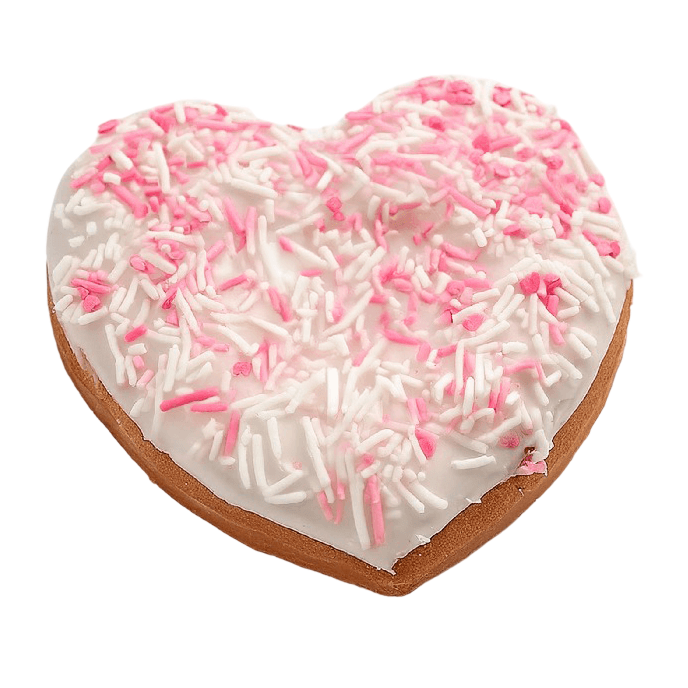
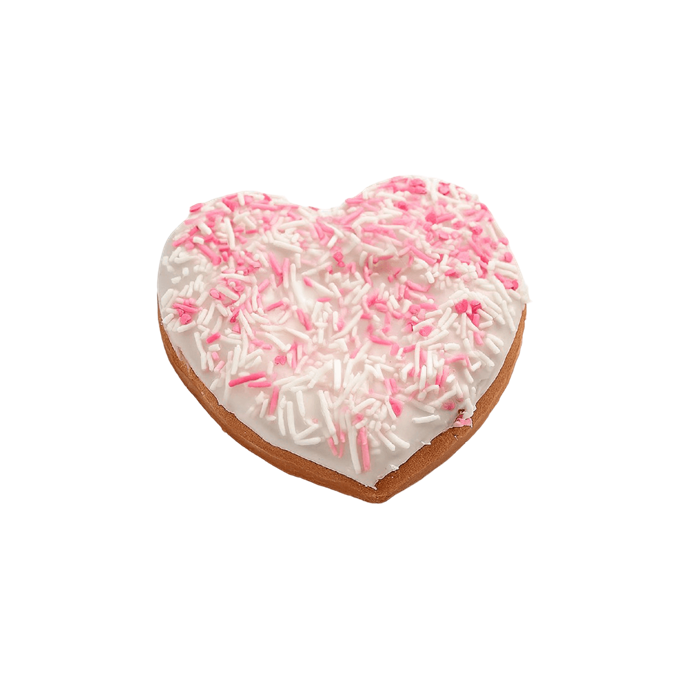
Customizable products open their page from the knob; two donuts resized
THE KNOB. It was only the boxes that opened a page instead of adding —
an empty box is a line the counter cannot pack. But the same is true of
every product carrying a customization: a letter cake with no letter, a
printed dozen with no artwork, a petite tray with no colours. Adding
those from a tile put a line in the bag that checkout then refused, and
left the visitor to work out which one and go and finish it.

The rule follows the data rather than a hand-kept list:
`customizationFor` is already the answer to "does this need specifying",
so adding a product to the customization system now makes its knob open
its page. They do not become steppers either — a second press should ask
the second donut's questions, not silently make two of the first.

THE ARTWORK. The Star of David's cut-out filled 85-91% of its canvas
where every ordinary donut fills 52-56%, so it rendered about 1.6x
larger in an identically sized tile. It is the artwork, not the layout:
the PNG is the same 688x688 as its neighbours, the donut inside it is
just bigger. Redrawn at 0.607 inside the same canvas, it now measures
0.521 x 0.552 against the glazed donut's 0.521 x 0.563.

Heart Shape had the identical defect at 0.875 and sits in the same grid,
so it got the same treatment rather than being left as the one oversized
tile next to the one just fixed.

Also the plain knob's label, which still said "Add ... to box" from
before the bag rename.

diff --git a/src/components/AddControl.tsx b/src/components/AddControl.tsx
@@ -3,7 +3,7 @@ import type { CSSProperties } from 'react';
 import type { Product } from '../data/products';
 import { C } from './brand';
 import { useBoxQty, useShop } from '../lib/shop';
-import { BOX_PRODUCTS } from '../lib/custom-order';
+import { customizationFor } from '../lib/custom-order';
 import { flyToCart } from '../lib/fly-to-cart';
 
 /**
@@ -82,17 +82,30 @@ export default function AddControl({
     cursor: 'pointer'
   };
 
-  /* A box you fill yourself cannot be added from a tile: an empty box is a
-     cart line the counter cannot pack, and there is nowhere in the drawer to
-     choose the six. The knob opens the builder instead — which is also why this
-     one never becomes a stepper. */
-  if (BOX_PRODUCTS.has(product.id)) {
+  /* Anything that has to be specified opens its page instead of being added.
+
+     It was only the boxes: an empty box is a line the counter cannot pack, so
+     the knob opened the builder. But the same is true of every product that
+     carries a customization — a letter cake with no letter, a printed dozen
+     with no artwork, a petite tray with no colours. Adding those from a tile
+     put a line in the bag that checkout then refused, and the visitor had to
+     work out which one and go and finish it.
+
+     `customizationFor` is the existing answer to "does this need specifying",
+     so the rule follows the data rather than a list kept in step by hand: add a
+     product to the customization system and its knob starts opening its page.
+
+     These never become steppers either. A second press should ask the second
+     donut's questions, not silently make two of the first. */
+  const needsSpec = Boolean(customizationFor(product.id));
+
+  if (needsSpec) {
     return (
       <button
         type="button"
         className="brand-press"
         onClick={() => openProduct(product.id)}
-        aria-label={`Build your own ${product.name}`}
+        aria-label={`Choose options for ${product.name}`}
         style={{ ...face, width: s.pill, cursor: 'pointer', display: 'grid', placeItems: 'center' }}
       >
         <Plus size={s.icon} strokeWidth={3} />
@@ -115,7 +128,7 @@ export default function AddControl({
         aria-label={
           product.id === 'twelve-custom-printed-donuts'
             ? 'Customize Twelve Custom Printed Donuts'
-            : `Add ${product.name} to box`
+            : `Add ${product.name} to bag`
         }
         style={{ ...face, width: s.pill, cursor: 'pointer', display: 'grid', placeItems: 'center' }}
       >
